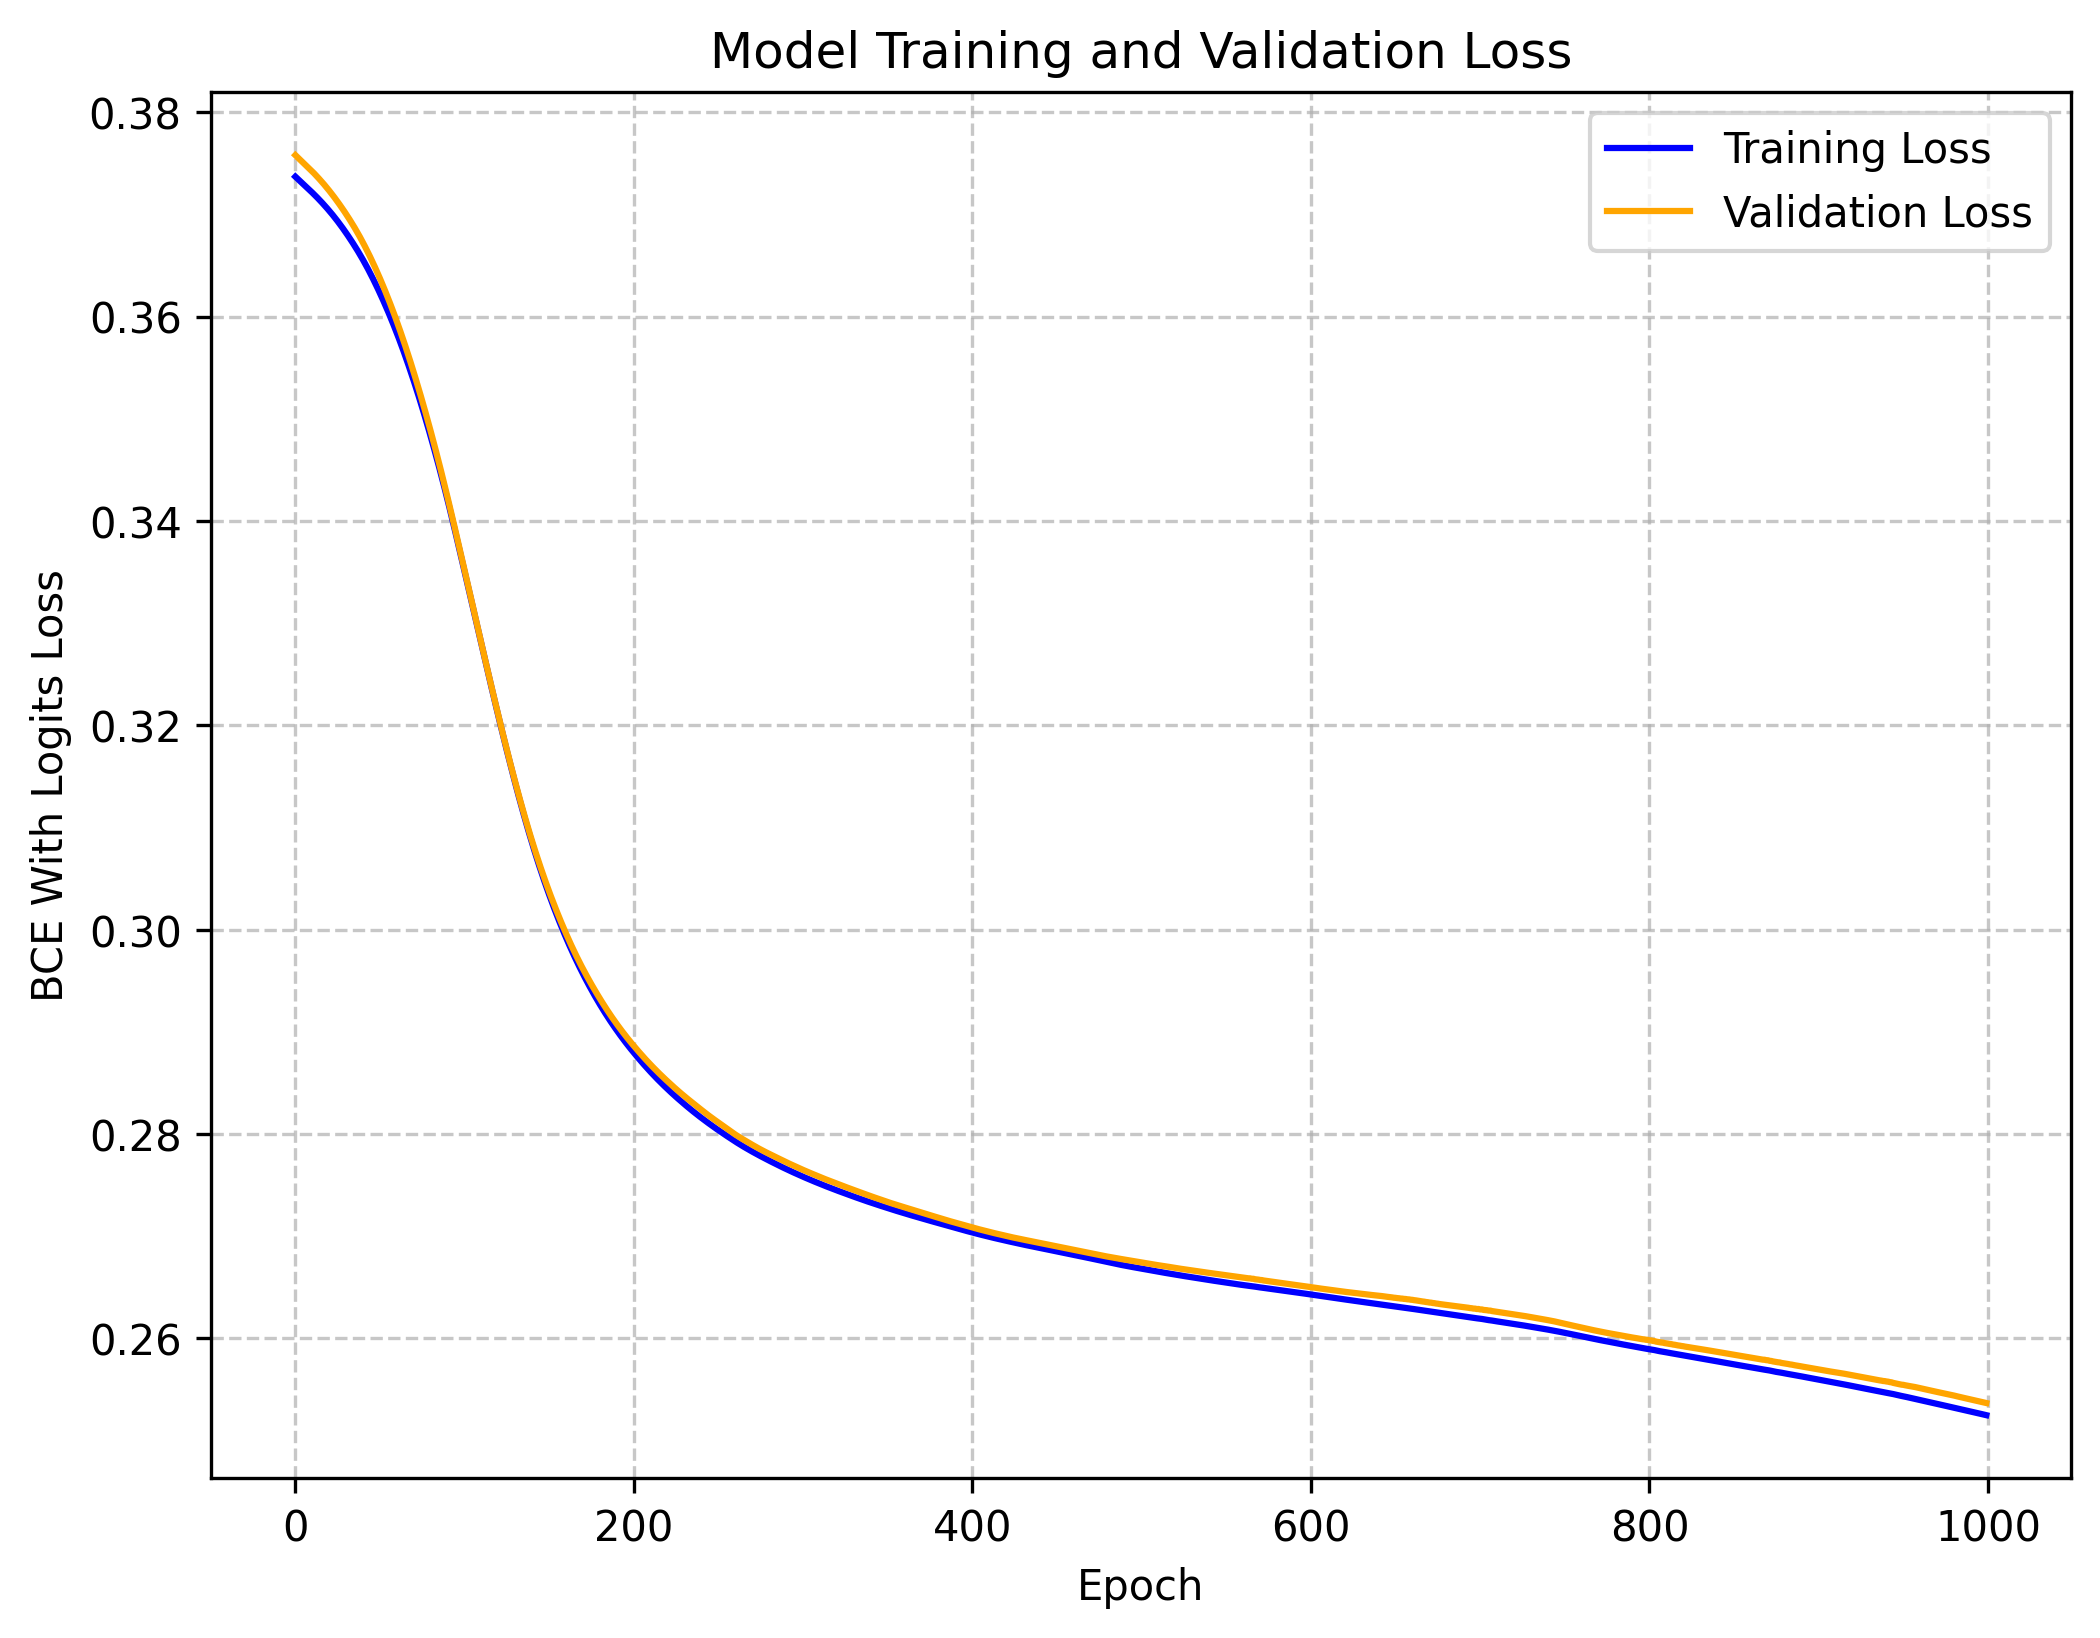
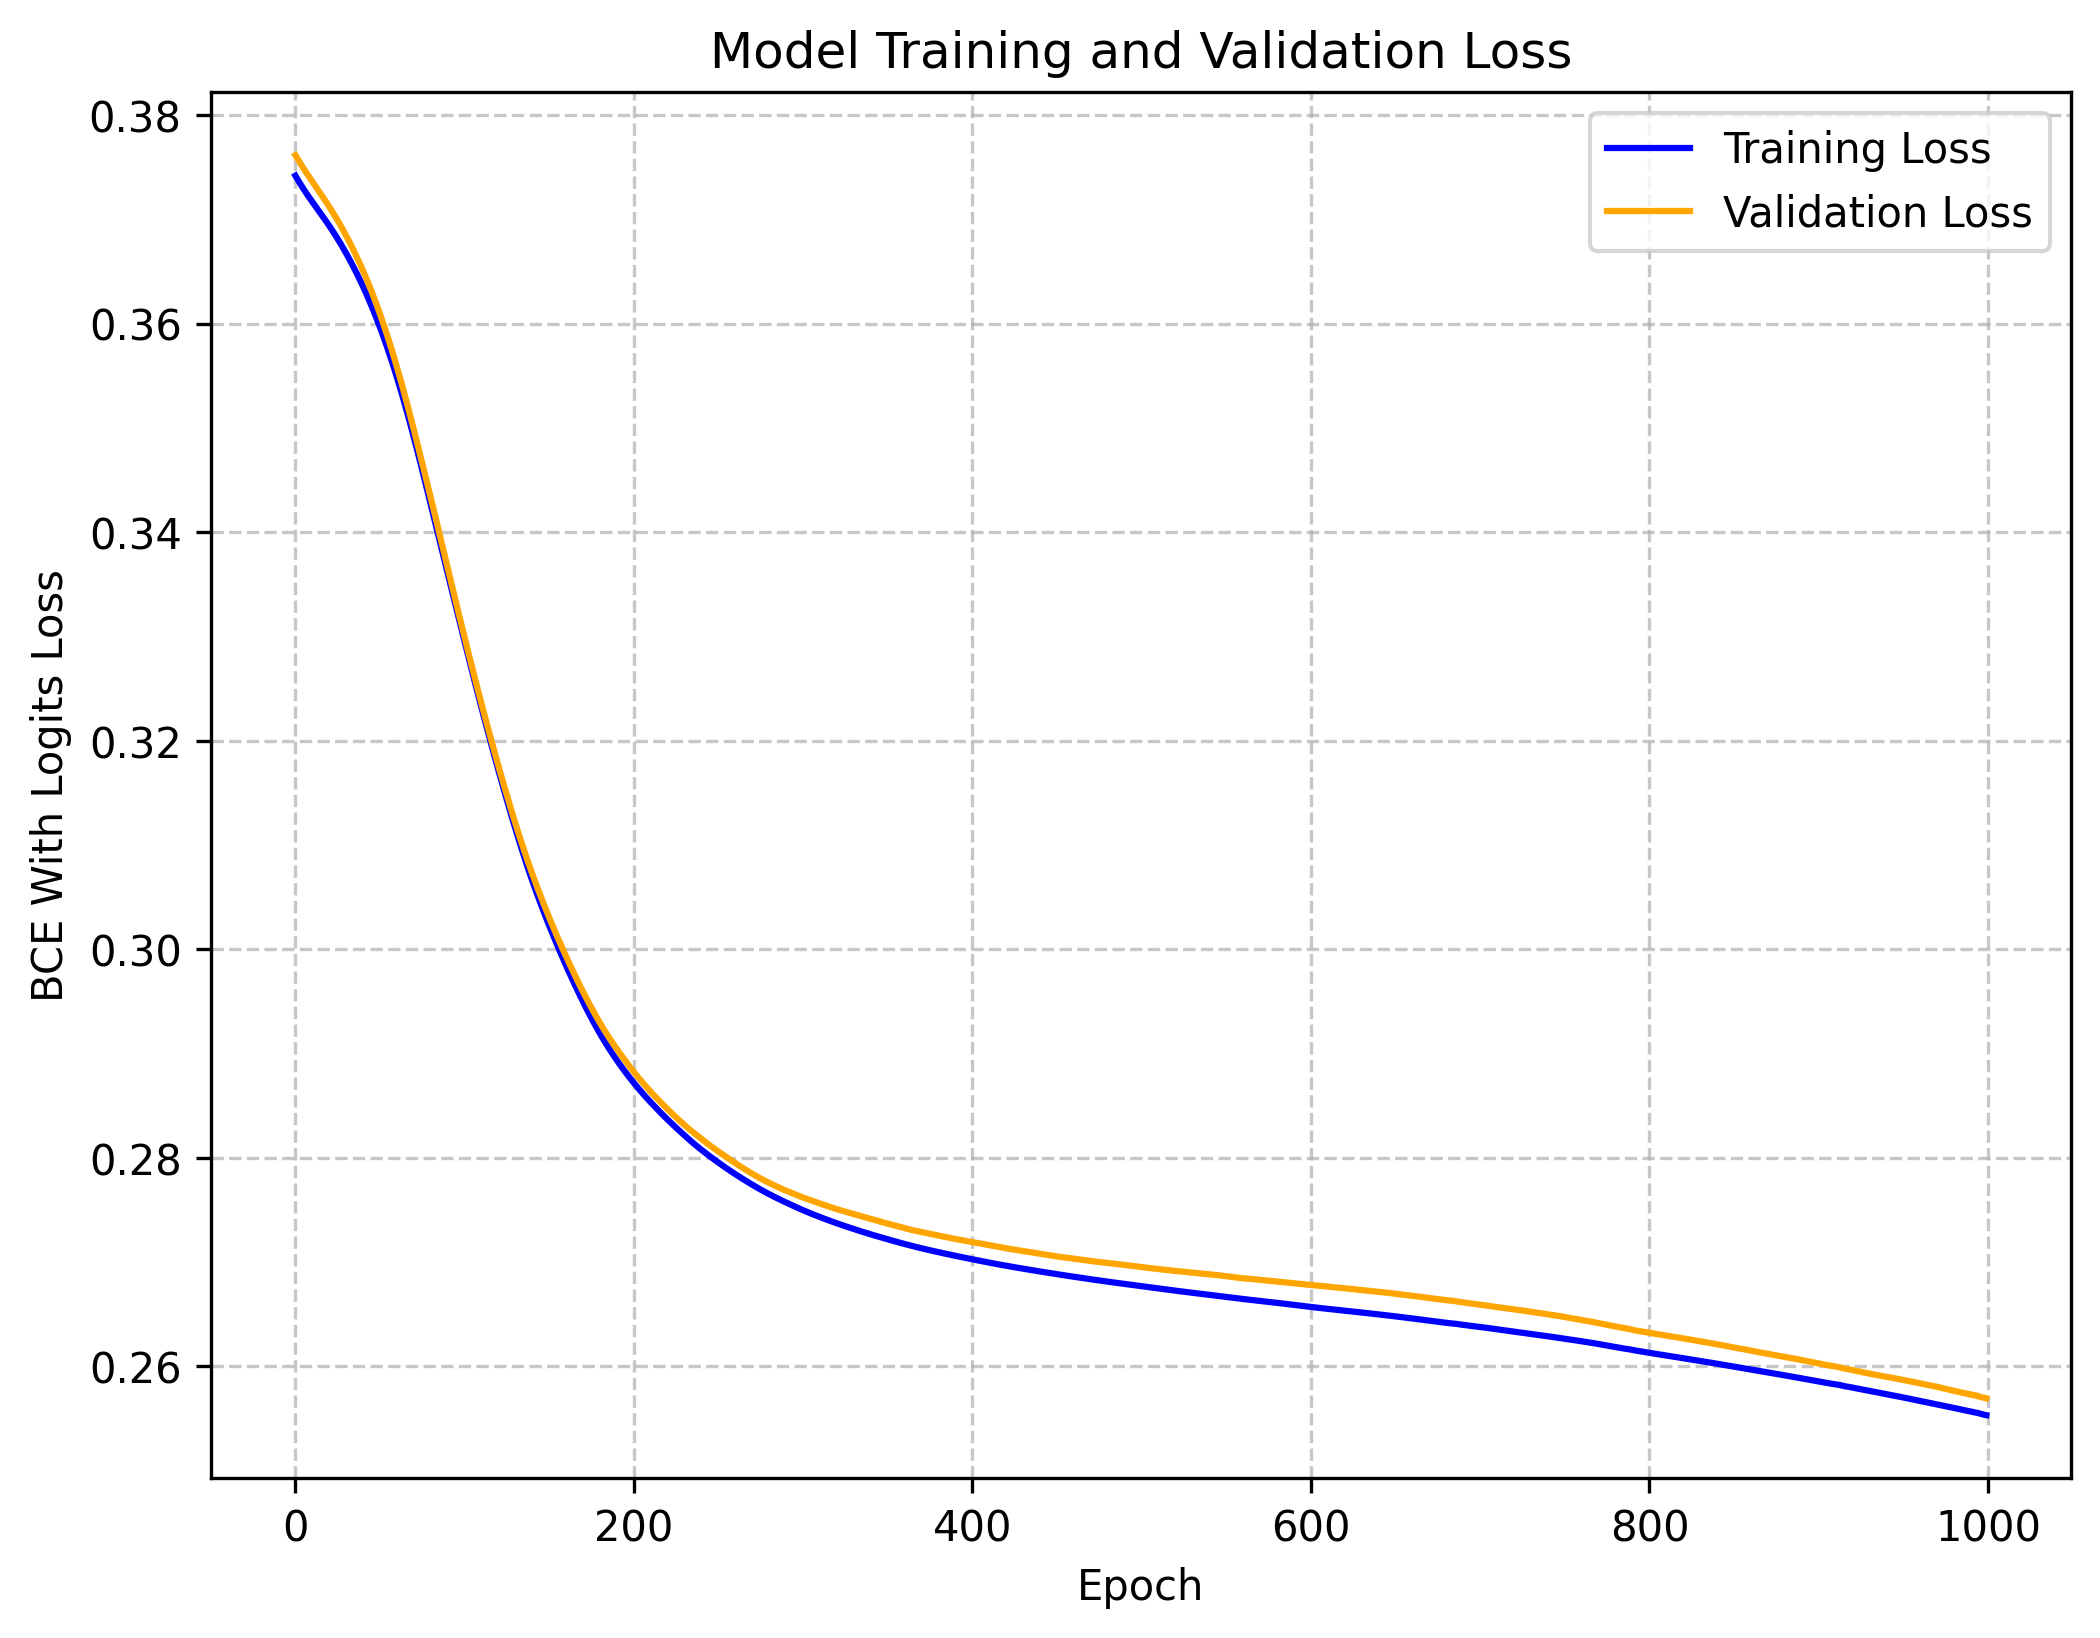
another try to make the plot work

diff --git a/acts/z_btr_files/mlp_model.py b/acts/z_btr_files/mlp_model.py
@@ -487,7 +487,8 @@ def train_model(X_train_scaled, y_train, X_val_scaled, y_val, train_df=None, val
             if weight_tensor is not None:
                 val_loss = (criterion(val_outputs, y_val_tensor) * val_weight_tensor).mean()
             else:
-                val_loss = nn.BCEWithLogitsLoss()(val_outputs, y_val_tensor)
+                # val_loss = nn.BCEWithLogitsLoss()(val_outputs, y_val_tensor)
+                val_loss = criterion(val_outputs, y_val_tensor)
             val_losses.append(val_loss.item())
 
         if (epoch + 1) % 20 == 0:
